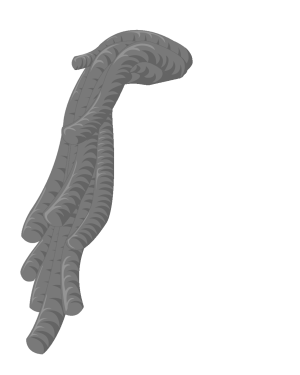
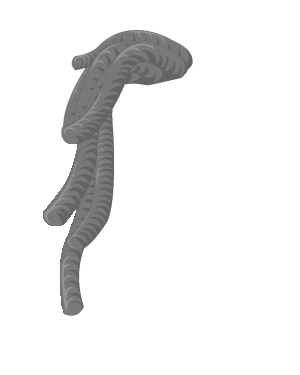
Short Hair Depth Layers
Adds a 'front' layer to most 'short' hairstyles where due to the smaller space, many hair accessories seemed to crowd the head and obscure too much of the hair.
This 'front' layer is drawn just above hair accessories and should hopefully give the appearance of depth. Due to the shapes used, many are not really suitable for additional colouring options - additional layer assets should be made if colouring options are expanded for these hairstyles.

Changed region(s): [[0.06, 0.352, 0.27, 0.968]]

diff --git a/BondageClub/Assets/Female3DCG/Female3DCG.js b/BondageClub/Assets/Female3DCG/Female3DCG.js
@@ -1676,7 +1676,7 @@ var AssetFemale3DCG = [
 			},
 			{ Name: "Ribbons3", BuyGroup: "Ribbons3", Layer: [
 					{ Name: "Long", HideForAttribute: ["ShortHair"] },
-					{ Name: "Short", ShowForAttribute: ["ShortHair"], CopyLayerColor: "Long" , Top: 20, Left: 90}
+					{ Name: "Short", ShowForAttribute: ["ShortHair"], CopyLayerColor: "Long" , Top: 20, Left: 90, Priority: 56}
 				]
 			},
 			{ Name: "Ribbons4", BuyGroup: "Ribbons4", Layer: [
@@ -1746,7 +1746,7 @@ var AssetFemale3DCG = [
 			},
 			{ Name: "Ribbons3", BuyGroup: "Ribbons3", Layer: [
 					{ Name: "Long", HideForAttribute: ["ShortHair"] },
-					{ Name: "Short", ShowForAttribute: ["ShortHair"], CopyLayerColor: "Long" , Top: 20, Left: 90}
+					{ Name: "Short", ShowForAttribute: ["ShortHair"], CopyLayerColor: "Long" , Top: 20, Left: 90, Priority: 56}
 				]
 			},
 			{ Name: "Ribbons4", BuyGroup: "Ribbons4", Layer: [
@@ -2649,12 +2649,15 @@ var AssetFemale3DCG = [
 			{ Name: "HairFront30" },
 			{ Name: "HairFront31" },
 			{ Name: "HairFront32" },
-			{ Name: "HairFront33", Random: false, Top: 33, Attribute: ["ShortHair"], Left: 150 },
+			{ Name: "HairFront33", Layer: [
+					{ Name: "Main" },
+					{ Name: "Front", Priority: 55, CopyLayerColor: ["Main"] },
+				], Random: false, Top: 33, Attribute: ["ShortHair"], Left: 150 },
 			{ Name: "HairFront34", Random: false, Priority: 8, Attribute: ["ShortHair"], Top: 33, Left: 150 },
 			{ Name: "HairFront35", Random: false, Priority: 8, Attribute: ["ShortHair"], Top: 33, Left: 150 },
 			{ Name: "HairFront36", Random: false, Priority: 8, Attribute: ["ShortHair"], Top: 33, Left: 150 },
 			{ Name: "HairFront37", Layer: [
-					{ Name: "Base" },
+					{ Name: "Main" },
 					{ Name: "Front", Priority: 55 },
 				], Random: false, Attribute: ["ShortHair"], Top: 33, Left: 150
 			},//HairFront37
@@ -2662,13 +2665,21 @@ var AssetFemale3DCG = [
 			Layer: [
 					{ Name: "Main" },
 					{ Name: "Fade", Priority: 8 },
+					{ Name: "Front", Priority: 55},
 				], Random: false, Attribute: ["ShortHair"], Top: 33, Left: 150
 			},//HairFront38
-			{ Name: "HairFront39", Random: false, Attribute: ["ShortHair"], Top: 33, Left: 100 },
+			{ Name: "HairFront39",
+			Layer: [
+					{ Name: "Main" },
+					{ Name: "Front", Priority: 55, CopyLayerColor: ["Main"]},
+					{ Name: "Behind", Priority: 5, CopyLayerColor: ["Main"]},
+				], Random: false, Attribute: ["ShortHair"], Top: 33, Left: 100 },
 			{ Name: "HairFront40",
 			Layer: [
 					{ Name: "Main" },
 					{ Name: "Fade", Priority: 8 },
+					{ Name: "Front", Priority: 55, CopyLayerColor: ["Main"]},
+					{ Name: "Behind", Priority: 5, CopyLayerColor: ["Main"]},
 				], Random: false, Attribute: ["ShortHair"], Top: 33, Left: 100
 			},//HairFront40
 			{ Name: "HairFront41", Random: false, Attribute: ["ShortHair"], Top: 33, Left: 150 },
@@ -2682,24 +2693,29 @@ var AssetFemale3DCG = [
 			Layer: [
 					{ Name: "Main" },
 					{ Name: "Fade", Priority: 8 },
+					{ Name: "Front", Priority: 55, CopyLayerColor: ["Main"] }
 				], Random: false, Attribute: ["ShortHair"], Top: 33, Left: 150
 			},//HairFront43
 			{ Name: "HairFront44",
 			Layer: [
 					{ Name: "Main" },
 					{ Name: "Fade", Priority: 8 },
+					{ Name: "Front", Priority: 55, CopyLayerColor: ["Main"] }
 				], Random: false, Attribute: ["ShortHair"], Top: 33, Left: 150
 			},//HairFront44
 			{ Name: "HairFront45",
 			Layer: [
 					{ Name: "Main" },
 					{ Name: "Fade", Priority: 8 },
-					{ Name: "Tint", Priority: 54 },
+					{ Name: "Tint" },
+					{ Name: "Front", Priority: 55, CopyLayerColor: ["Main"]},
+					{ Name: "FrontTint", Priority: 55, CopyLayerColor: ["Tint"]},
 				], Random: false, Attribute: ["ShortHair"], Top: 33, Left: 150
 			},//HairFront45
 			{ Name: "HairFront46",
 			Layer: [
 					{ Name: "Main" },
+					{ Name: "Front", Priority: 55, CopyLayerColor: ["Main"]},
 					{ Name: "Fade", Priority: 8 },
 				], Random: false, Attribute: ["ShortHair"], Top: 33, Left: 150
 			},//HairFront46
@@ -2815,7 +2831,7 @@ var AssetFemale3DCG = [
 				]
 			},
 			{ Name: "HairBack55" },
-			{ Name: "HairBack56", Left: 50 }
+			{ Name: "HairBack56", Left: 50, Random: false }
 		],
 		Color: ["Default", "#6a3628", "#202020", "#dcc787", "#6c2132", "#999999", "#dddddd", "#e781b1", "#81e7b1", "#81b1e7", "#eeee99", "#ee9999", "#ee99ee"],
 		InheritColor: "HairFront"
